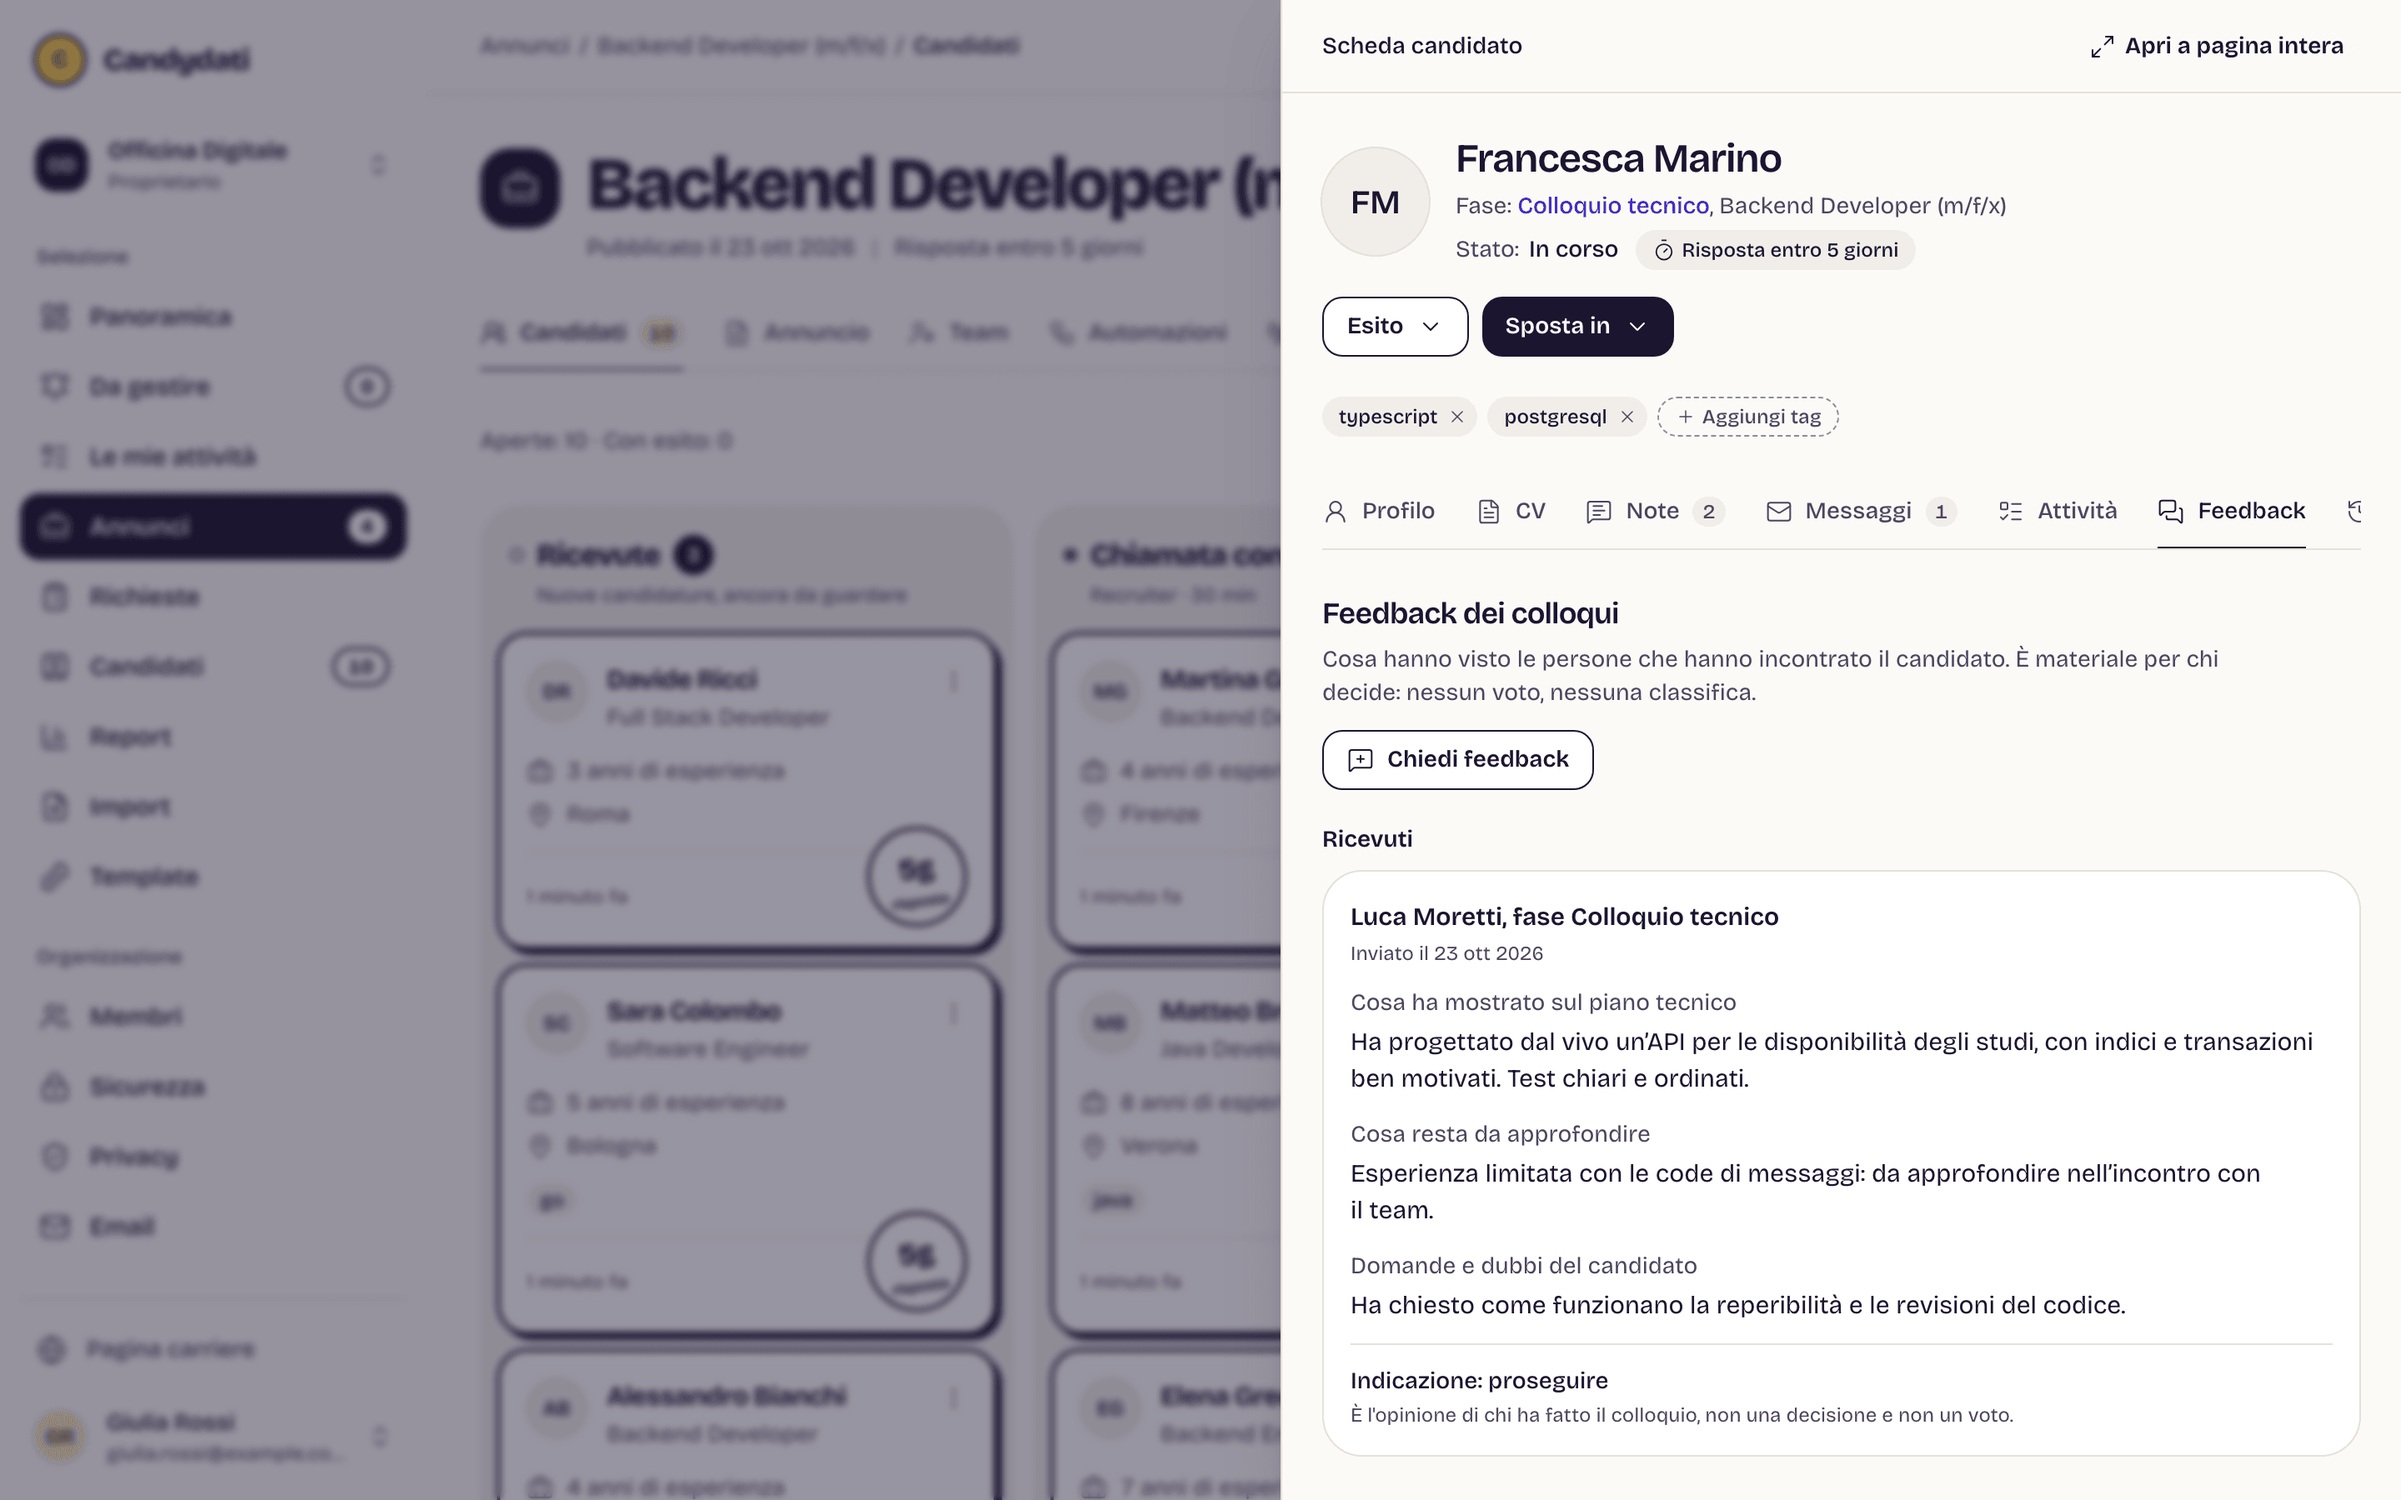
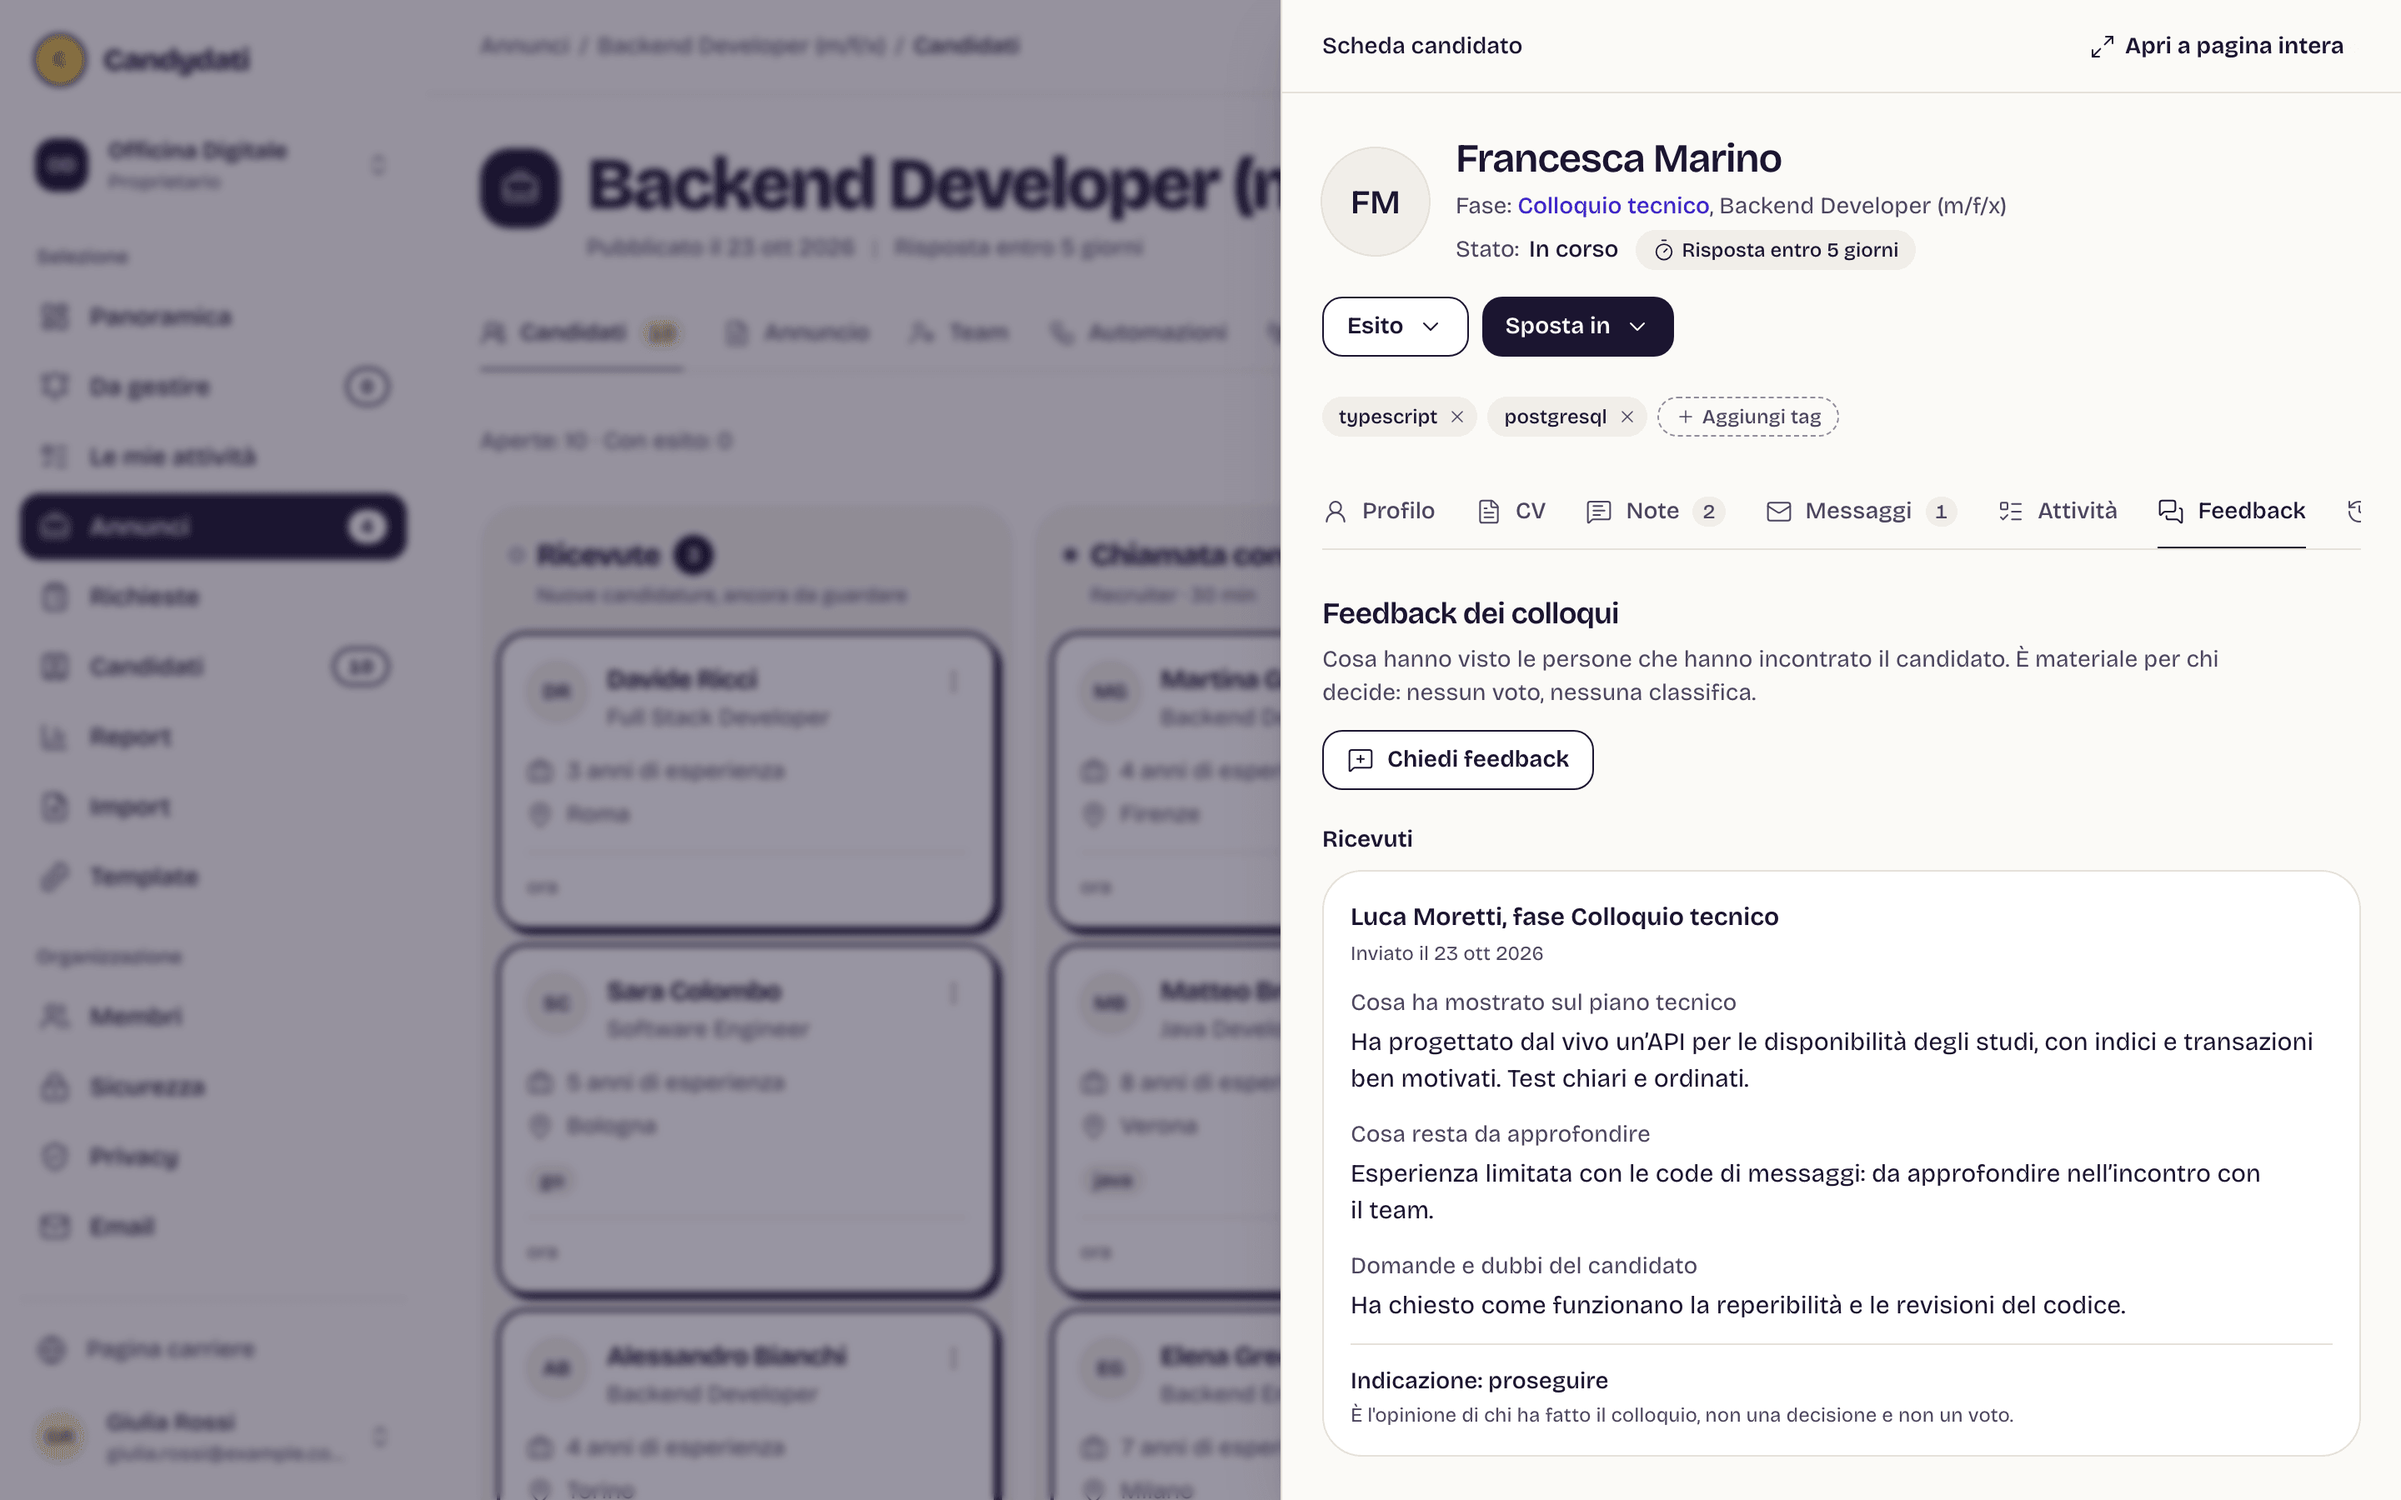
refactor: no response sticker on the pipeline board
The countdown stays where a person acts on it (attention list, candidate
detail). Sticker component, logic, translations and design notes removed;
README screenshots regenerated.

diff --git a/apps/web/app/components/pipeline/CandidateCard.nuxt.test.ts b/apps/web/app/components/pipeline/CandidateCard.nuxt.test.ts
@@ -1,0 +1,21 @@
+import { mountSuspended } from '@nuxt/test-utils/runtime'
+import { describe, expect, it } from 'vitest'
+import { card, pipeline } from '~~/test/fixtures/candidate-fixtures'
+import CandidateCard from './CandidateCard.vue'
+
+const NOW = new Date('2026-10-13T10:00:00.000Z')
+const props = { stages: pipeline().stages, now: NOW, canMove: false, canDecide: false }
+
+describe('CandidateCard', () => {
+  it('shows no response countdown on the board: the deadline lives in the attention list and the profile', async () => {
+    const running = await mountSuspended(CandidateCard, { props: { ...props, card: card('r1', 'stage-0', { responseDueAt: '2026-10-11T08:00:00.000Z' }) } })
+    expect(running.find('[data-testid="response-sticker"]').exists()).toBe(false)
+    expect(running.find('[data-testid="response-pill"]').exists()).toBe(false)
+    expect(running.text()).not.toMatch(/ritardo|risposta entro/i)
+  })
+
+  it('keeps the quiet "answered" mark once the candidate has heard back', async () => {
+    const answered = await mountSuspended(CandidateCard, { props: { ...props, card: card('r2', 'stage-0', { responseState: 'answered', respondedAt: '2026-10-12T10:00:00.000Z' }) } })
+    expect(answered.find('[data-testid="response-pill"]').attributes('data-state')).toBe('answered')
+  })
+})

diff --git a/apps/web/app/components/pipeline/CandidateCard.vue b/apps/web/app/components/pipeline/CandidateCard.vue
@@ -37,7 +37,7 @@ const since = computed(() => relativeTime(props.card.stageChangedAt, props.now, 
 const TAGS_SHOWN = 3
 const tags = computed(() => props.card.candidate.tags.slice(0, TAGS_SHOWN))
 const moreTags = computed(() => Math.max(0, props.card.candidate.tags.length - TAGS_SHOWN))
-/** Once answered the sticker goes away and the footer keeps a quiet "Risposto". */
+/** The board shows no countdown (it lives in the attention list and the profile); once answered the footer says so quietly. */
 const answered = computed(() => effectiveResponseState(props.card, props.now) === 'answered')
 </script>
 
@@ -120,8 +120,6 @@ const answered = computed(() => effectiveResponseState(props.card, props.now) ==
         <span class="sr-only">{{ t('pipeline.card.notes', { count: card.noteCount }, card.noteCount) }}</span>
         <span class="figure" aria-hidden="true">{{ card.noteCount }}</span>
       </span>
-      <!-- In the footer, not next to the name: the name and headline keep their full width; it overlaps the rule above. -->
-      <ResponseSticker :application="card" :now="now" class="-mt-7 -mb-1" />
     </div>
   </article>
 </template>

diff --git a/docs/DESIGN-SYSTEM.md b/docs/DESIGN-SYSTEM.md
@@ -8,12 +8,11 @@ Code cites it as `DESIGN-SYSTEM.md §n`.
 
 The direction is **Candy, with a restrained palette**: warm paper, deep ink, one yellow, bold type and a recognisable shape (ink outlines, round corners, hard offset shadows). Friendly and confident, never noisy. Intensity dials: app variance 6, motion 4, density 4; public pages 7 / 4 / 3.
 
-1. **Transparency is the visual hero.** Salary and process stages are the most prominent content, never a footnote. Inside the app, the response promise is (the sticker, §3.1).
+1. **Transparency is the visual hero.** Salary and process stages are the most prominent content, never a footnote.
 2. **One accent: yellow.** `highlight` (`#FFD54F`, always with ink text) marks only what matters: the salary, a response promise due soon, the primary highlight of a page. Actions are ink, not yellow. Links have their own colour (`link`). One alert colour, `alert` coral, only for what is overdue or late. Stages are never coloured differently: no pastel per stage.
 3. **Numbers matter.** Large, bold figures, tabular numerals (`figure`), never buried in sentences.
 4. **Shape carries the identity.** Cards and key panels have a 2px ink outline, generous radius and a hard offset shadow (§2.5). Everything else sits on the paper background, separated by space or a light border.
-5. **The response promise is a sticker.** A round, slightly rotated badge (§3.1), the signature element of the product.
-6. **Copy:** natural language, short sentences, no em or en dashes (use a hyphen, comma, colon or two sentences). The product name comes from `usePlatform()`, never typed by hand.
+5. **Copy:** natural language, short sentences, no em or en dashes (use a hyphen, comma, colon or two sentences). The product name comes from `usePlatform()`, never typed by hand.
 
 ## 2. Tokens
 
@@ -24,7 +23,7 @@ Defined in `app/assets/css/tailwind.css`.
 | Token | Light | Dark | Use |
 |---|---|---|---|
 | `background` | `#FBFAF7` (paper) | `#14111F` | page background, sidebar |
-| `card` / `popover` | `#FFFFFF` | `#1D1930` / `#231E38` | cards, menus, dialogs, the on-track sticker |
+| `card` / `popover` | `#FFFFFF` | `#1D1930` / `#231E38` | cards, menus, dialogs |
 | `foreground` | `#1B1530` (ink) | `#FBFAF7` | text |
 | `muted-foreground` | `#4A4360` | `#BDB6CF` | secondary text |
 | `muted` / `secondary` | `#F1EEE8` | `#241F37` / `#29233F` | stage columns, hero blocks, neutral pills, hover |
@@ -52,7 +51,7 @@ Never pure `#000`. White (`#FFFFFF`) only for cards and the surfaces that sit on
 | Pair | Light | Dark |
 |---|---|---|
 | foreground on background | 16.81 | 17.81 |
-| foreground on card (also the on-track sticker) | 17.55 | 16.30 |
+| foreground on card | 17.55 | 16.30 |
 | foreground on muted (stage columns, hero) | 15.16 | 15.17 |
 | muted-foreground on background | 8.89 | 9.52 |
 | muted-foreground on card | 9.28 | 8.72 |
@@ -95,7 +94,7 @@ Headings use `text-wrap: balance`, paragraphs `pretty` (in the CSS base).
 
 ### 2.4 Radius, spacing, icons
 
-- **Radius:** controls (buttons, inputs, selects) `rounded-md` = 12px (`xs` buttons `rounded-sm` = 8px). Cards `rounded-lg` = 18px; panels, stage columns, dialogs `rounded-xl` = 24px; heroes `rounded-2xl` = 32px. Items inside menus `rounded-md` within a `p-1.5` (concentric). Pills, badges and stickers `rounded-full`.
+- **Radius:** controls (buttons, inputs, selects) `rounded-md` = 12px (`xs` buttons `rounded-sm` = 8px). Cards `rounded-lg` = 18px; panels, stage columns, dialogs `rounded-xl` = 24px; heroes `rounded-2xl` = 32px. Items inside menus `rounded-md` within a `p-1.5` (concentric). Pills and badges `rounded-full`.
 - **Spacing:** Tailwind 4px scale. Inside a panel `px-5 py-5` (`sm:px-6`); between page sections `gap-8`; between form fields `gap-5`; list rows `py-3.5` / `py-4`. App layout: content `max-w-6xl`, gutter `px-4 sm:px-6 lg:px-10`.
 - **Icons:** `@lucide/vue` only, stroke 1.5 set once with `setLucideProps` (`app.vue`, `error.vue`). Sizes: 16px (`size-4`) in controls, 18px in navigation, 20px in the menu button.
 
@@ -109,7 +108,7 @@ Headings use `text-wrap: balance`, paragraphs `pretty` (in the CSS base).
 
 ### 2.6 Motion
 
-One easing, `ease-snap` = `cubic-bezier(0.16, 1, 0.3, 1)`. Durations: 150ms for hover and press, 200ms dialogs and menus, 300ms drawers. Buttons: `active:scale-[0.98]`. Menus and dialogs enter with a fade plus zoom 0.98, no bounce. Skeletons use `animate-shimmer`, which stops under `motion-reduce`. `prefers-reduced-motion` zeroes animations and transitions globally. Switching theme does not animate colours. The stickers' rotation is static, not motion.
+One easing, `ease-snap` = `cubic-bezier(0.16, 1, 0.3, 1)`. Durations: 150ms for hover and press, 200ms dialogs and menus, 300ms drawers. Buttons: `active:scale-[0.98]`. Menus and dialogs enter with a fade plus zoom 0.98, no bounce. Skeletons use `animate-shimmer`, which stops under `motion-reduce`. `prefers-reduced-motion` zeroes animations and transitions globally. Switching theme does not animate colours.
 
 ## 3. Components
 
@@ -139,13 +138,9 @@ Base components live in `app/components/ui/*`.
 
 App components: `AppPage` (top bar plus main column), `AppTopBar`, `AppBreadcrumbs`, `AppNavPanel`, `PageHeader` (icon tile, title, pill, meta, actions, tabs), `UnderlineTabs`, `OrgSwitcher`, `UserMenu`, `FormAlert`. Overview: `StatCard`, `ChartEmpty` and one card per statistic in `components/dashboard/`.
 
-### 3.1 The response promise sticker
+### 3.1 The response promise
 
-The signature element. Two forms, both round with a 2px ink outline, rotated (static, not animated), with ink text:
-
-- **`ResponseSticker`** (`components/response/`, logic in `lib/response-sticker.ts`): on a pipeline card, 60px, rotated -8 degrees, at the right end of the card footer overlapping its top rule (never next to the name, which keeps its full width). It shows the days left as a big figure ("5g" / "5d") over "risposta" / "reply"; "oggi" / "today" on the last day; "!" over "ritardo" / "late" once overdue. **White** (`card`) on track, **yellow** (`highlight`) within 48 hours (`DUE_SOON_HOURS`), **coral** (`alert`) when overdue. The words change with the state, so colour is never the only signal; it is `role="img"` with the full sentence as `aria-label` ("Risposta entro 5 giorni", "In ritardo di 2 giorni") and the promised date as `title`. Nothing is shown once answered (the card footer keeps a quiet "Risposto") or closed.
-
-`ResponsePill` stays for lists (attention, candidate detail), with the same colours: neutral on track, `highlight` when due soon, `alert` when late.
+No countdown on the pipeline board or on the public ad. `ResponsePill` shows it where a person acts on it, the attention list and the candidate detail, with these colours: neutral on track, `highlight` when due soon, `alert` when late.
 
 ## 4. Patterns
 
@@ -202,9 +197,9 @@ The structural model, in words: a pipeline board of fixed-width columns on a sof
 - **Page:** the ad's header as above (tile, title, "Published" pill, meta "Published on ... | Answer within N days"), tabs `Candidates 12 | Ad | Activity`. Right of the tabs: search, Filter (`outline`), the primary action and the view switcher (board, list) as an icon button group.
 - **Columns** = the stages declared in the ad (`PRODUCT.md §4.1`), in the same order. Fixed width `w-80`, solid `muted` fill (the same for every stage), `rounded-xl p-2.5`, horizontal scroll of the board only. Header: stage status dot (8px, one tone per stage *type* from the ink scale; never colours), name `text-lg font-extrabold`, count in an ink `figure` pill with paper text, the ... menu on the right. The assistant's help for the stage ("Ask the assistant") lives there too; it works on the process and does not rank people.
 - **Candidate card:** candy card, `bg-card rounded-lg border-2 border-ink p-4 shadow-hard`, 12px inner gap; on hover it lifts 1px with `shadow-hard-md`.
-  1. 36px avatar, name `text-base font-bold`, headline below in `muted`; the response sticker (§3.1) on the right, then the ... menu.
+  1. 36px avatar, name `text-base font-bold`, headline below in `muted`; the ... menu on the right.
   2. Meta rows with a 16px icon in `muted-foreground`: years of experience, location. No scores and no "match": the product has none by design (`PRODUCT.md §2.4`).
-  3. Separator, then the footer: relative time in the stage on the left, counters on the right (notes) with icon and `figure`. The sticker is the only colour on the card: white, then yellow when due soon, coral once late.
+  3. Separator, then the footer: relative time in the stage on the left, counters on the right (notes) with icon and `figure`.
 - **Dragging:** the grabbed card lifts (`shadow-hard-lg`, a focus ring, `cursor-grabbing`), a dashed placeholder stays in its place; the destination column turns `accent` with an ink ring and shows a 2px ink line where it will drop. Keyboard: space to pick up, arrows to move, space to drop, Esc to cancel, with an `aria-live` announcement of the destination stage. Under `prefers-reduced-motion` no rotation and no return animation. Moving never sends messages by itself: it asks for confirmation (`PRODUCT.md §5.3`).
 
 ### 5.6 Candidate detail
@@ -259,4 +254,4 @@ The structural model, in words: a pipeline board of fixed-width columns on a sof
 - Everything centred. Left-align by default; centre only a short empty state.
 - Fake screenshots made of divs, stock photos, decorative illustrations.
 - State colours used to decorate; yellow on more than what matters (salary, promise due soon, one highlight per view); coral for anything but overdue or late; a different colour per stage.
-- `#000`, white outside cards and stickers, blurred black shadows, `shadow-2xl`. Hard shadows only in `ink-shadow`, only on candy cards and heroes.
+- `#000`, white outside cards, blurred black shadows, `shadow-2xl`. Hard shadows only in `ink-shadow`, only on candy cards and heroes.
